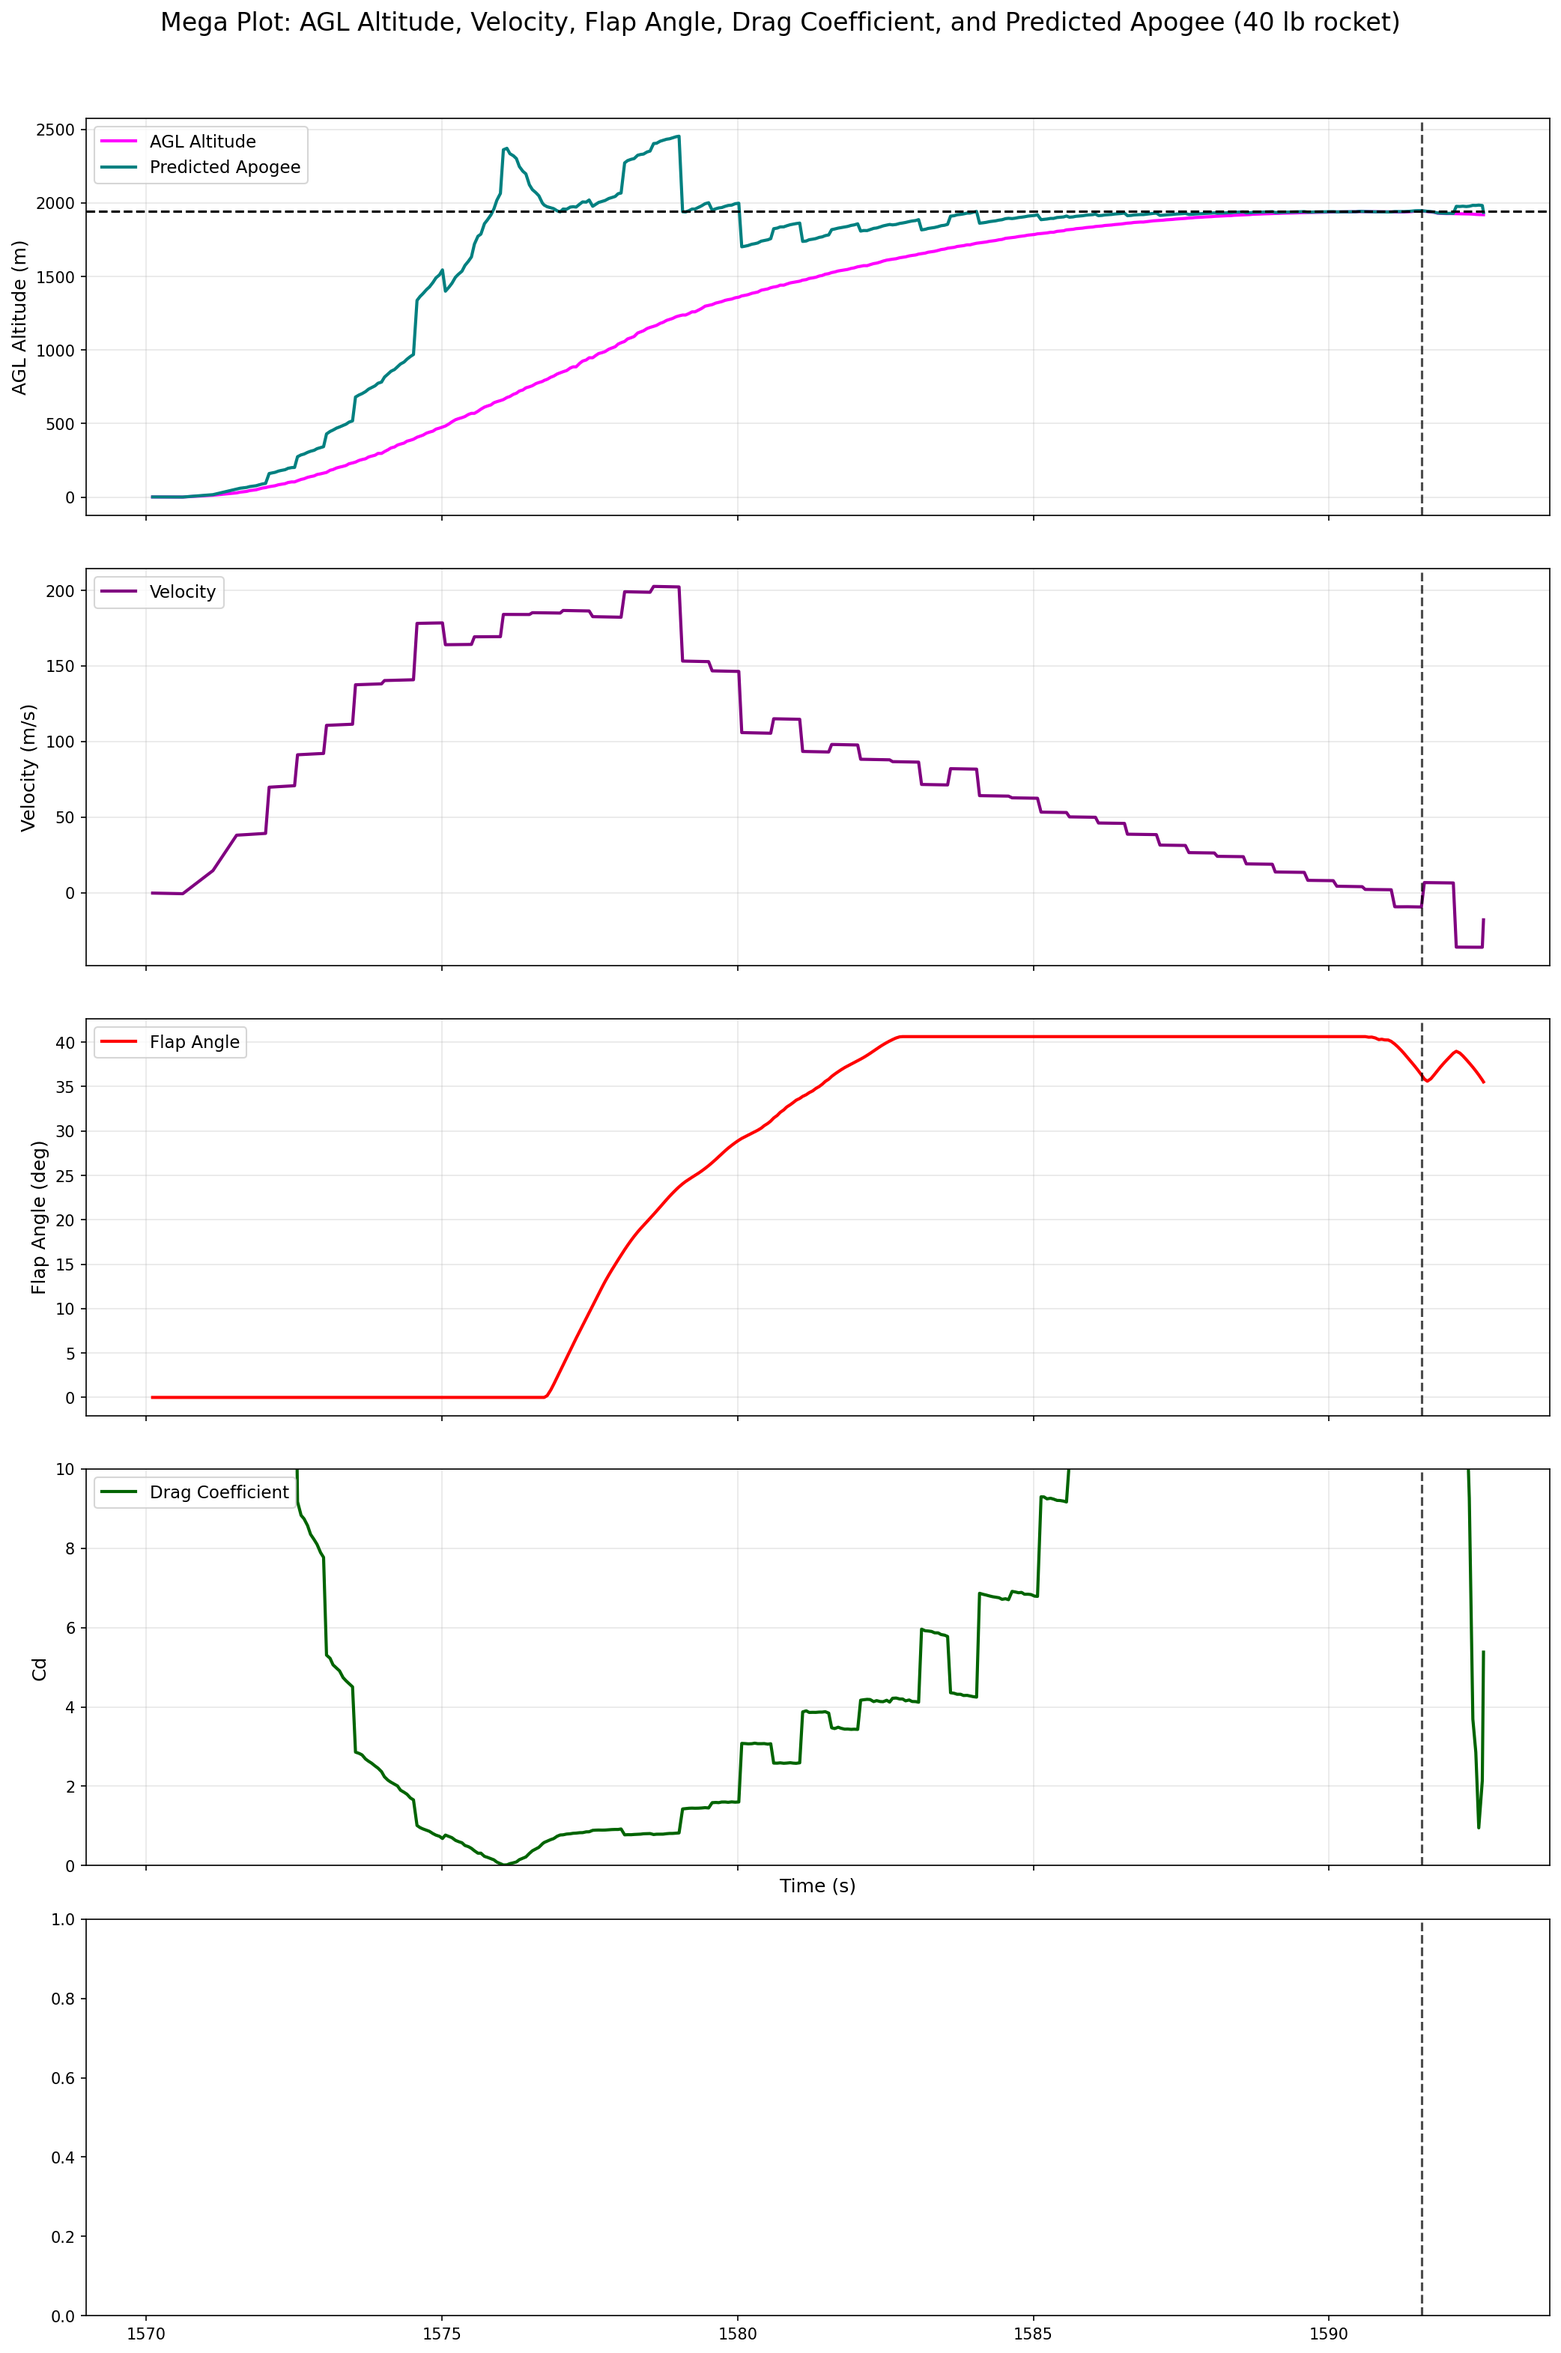
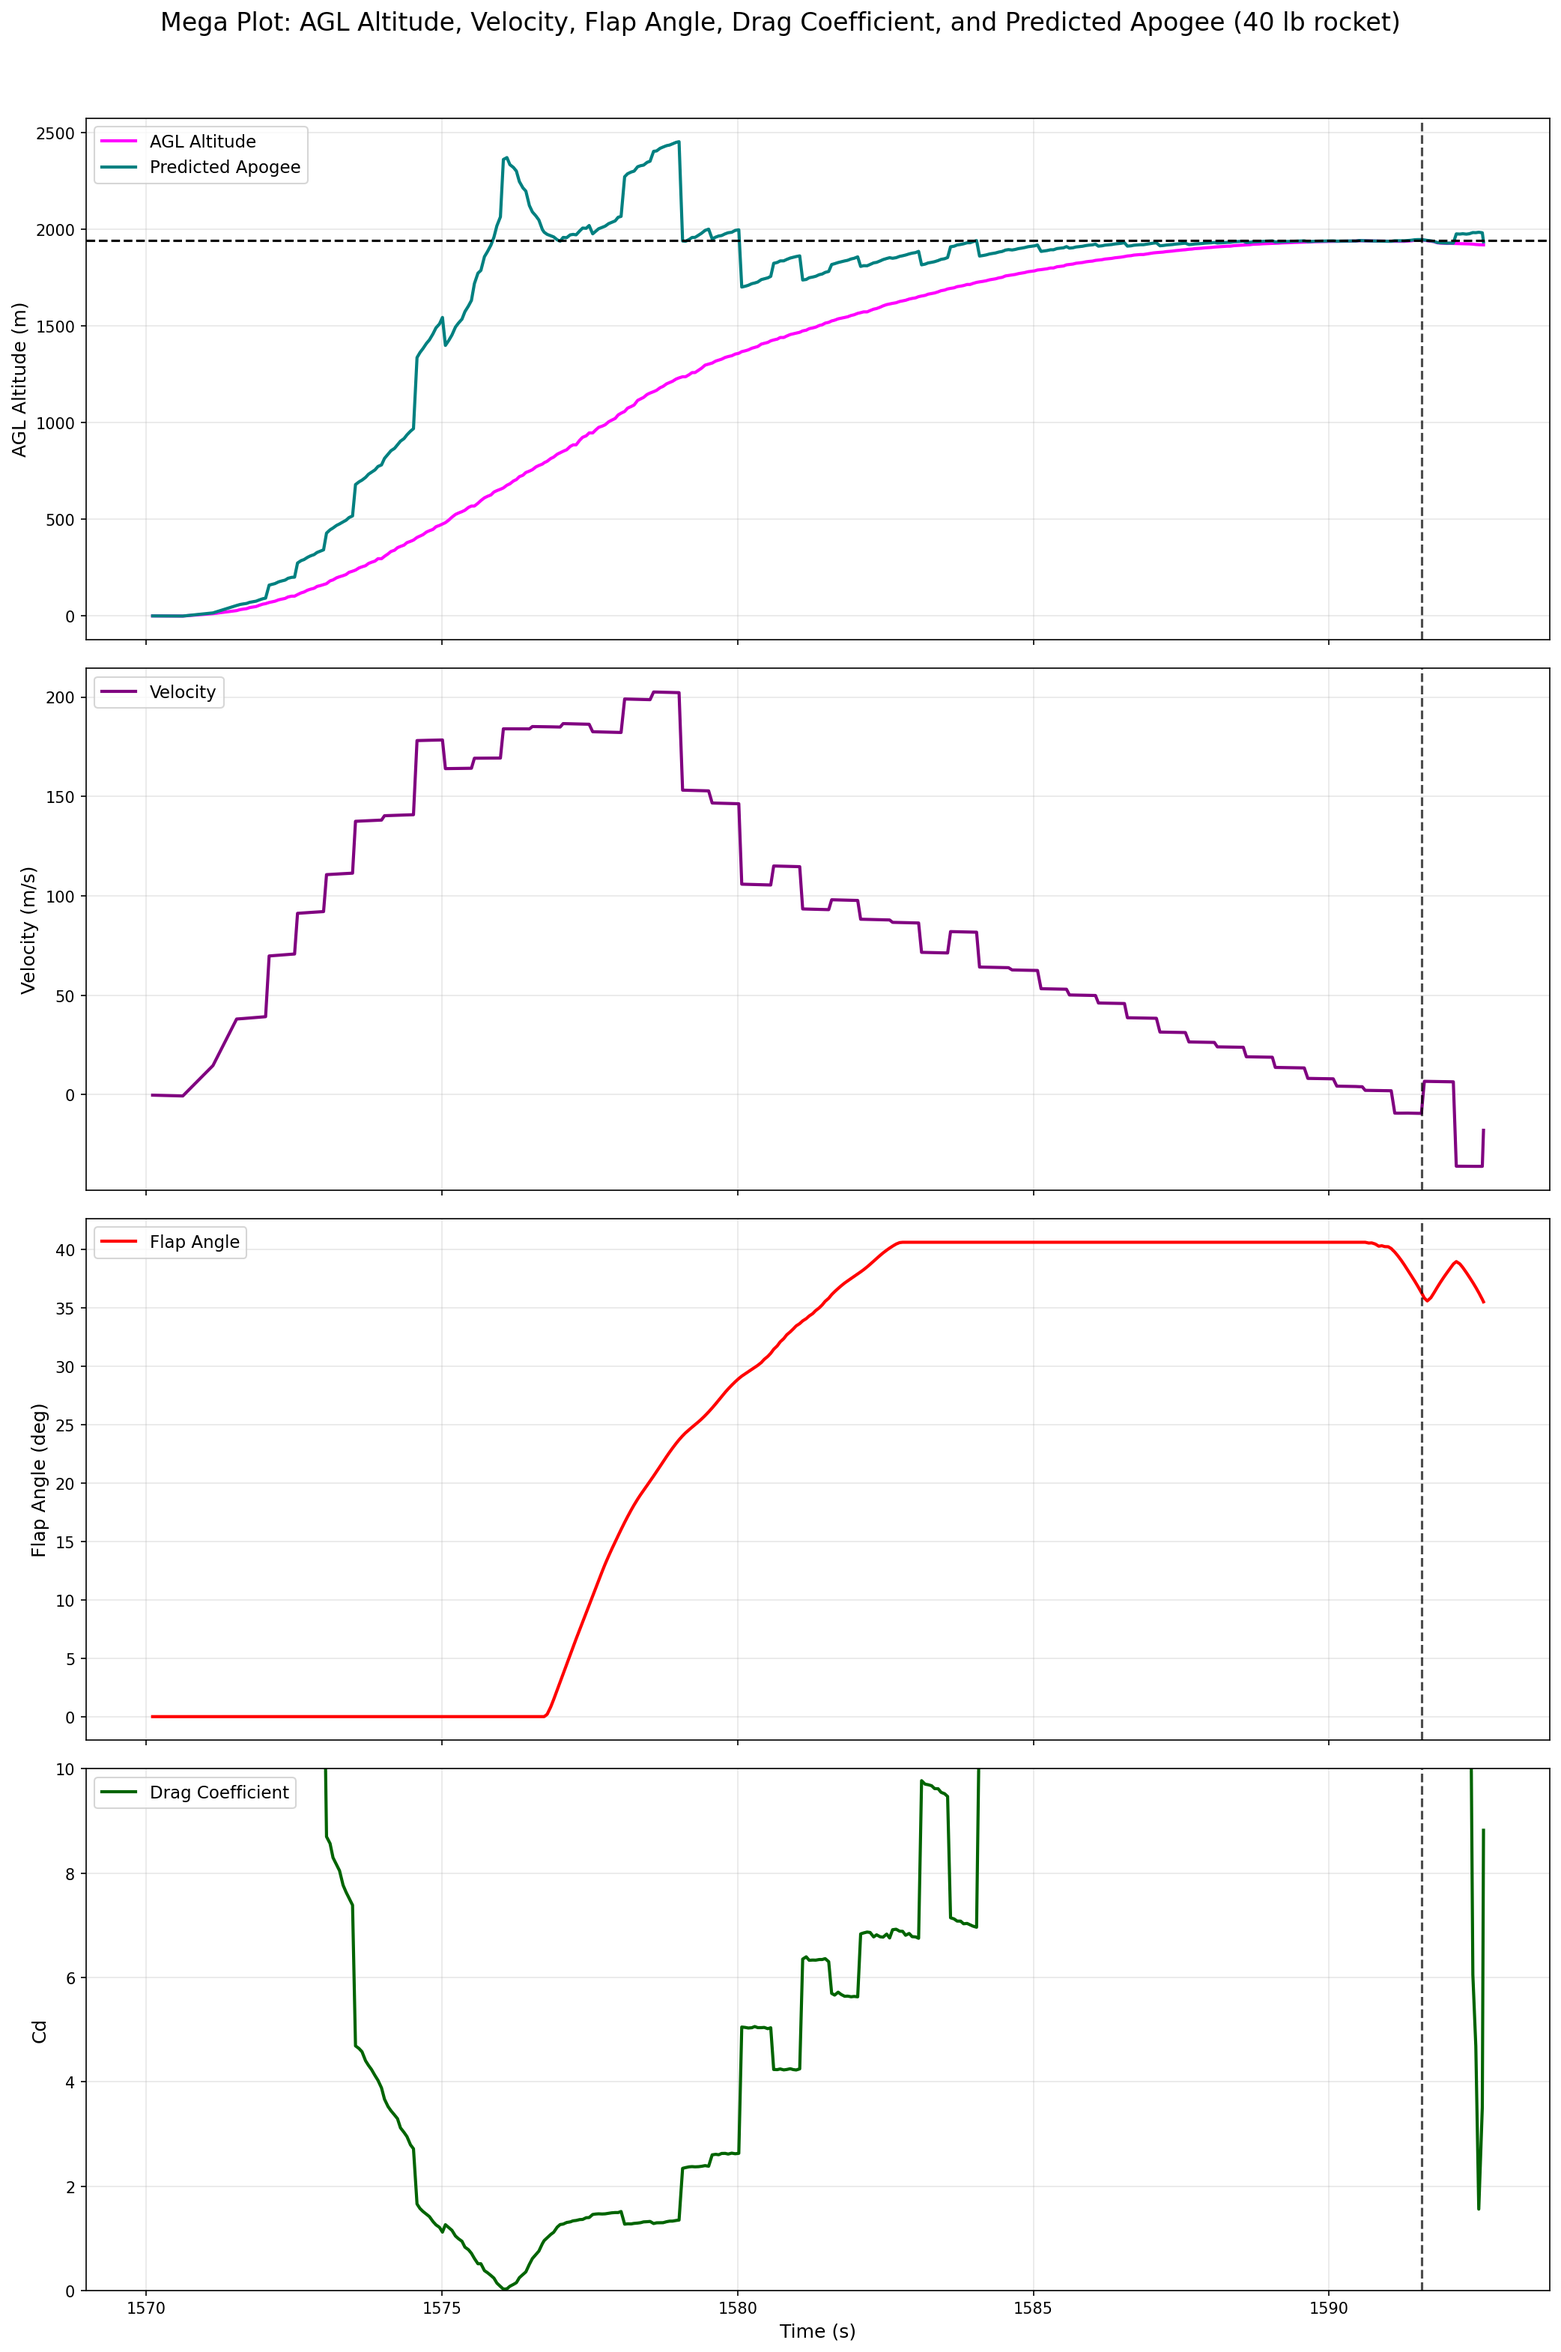
refactored some shiz and made the mass accruate for after burnout

diff --git a/scripts/data_analysis.py b/scripts/data_analysis.py
@@ -288,6 +288,7 @@ class FlightDataAnalyzer():
         apogee = altitude + mass / (2*k) * np.log(1 + (k * velocity**2) / (mass * g))
         return apogee
 
+
     def plot_motor_and_acceleration_data(self):
         """Plot motor data on left y-axis and acceleration data on right y-axis"""
         time = self.df['time_s']
@@ -332,11 +333,13 @@ class FlightDataAnalyzer():
         accel_z = self.df['accel_z_mps2'] - 9.81
         agl_apogee = max(agl_altitude)
 
-        mass_kg = 40.0 * 0.45359237
+        mass_kg = 29.756
         frontal_area_m2 = np.pi * 0.0762**2 # 6in diameter rocket
         drag_coeff = self._cd_from_accel(mass_kg, frontal_area_m2, accel_z, velocity, pressure, temperature)
-        predicted_apogee = self._get_predicted_apogee(mass_kg, agl_altitude, velocity, drag_coeff, frontal_area_m2, pressure, temperature)
-
+        rho = self._air_density_from_pressure(pressure, temperature)
+        predicted_apogee = self._get_predicted_apogee(mass_kg, agl_altitude, velocity, drag_coeff, frontal_area_m2, rho)
+        self._get_predicted_apogee(mass_kg, agl_altitude, velocity, drag_coeff, frontal_area_m2, rho)
+        
         fig, axs = plt.subplots(4, 1, figsize=(14, 22), sharex=True)
 
         axs[0].plot(time, agl_altitude, color='magenta', linewidth=2, label='AGL Altitude')
@@ -372,6 +375,8 @@ class FlightDataAnalyzer():
         fig.tight_layout(rect=[0, 0.03, 1, 0.96])
         fig.savefig(self.output_dir / 'mega_plot.png', dpi=150, bbox_inches='tight')
         plt.close(fig)
+
+
 def main():
   # Analyze epic_data.csv for time range 1550-1625 seconds
   flight_analyzer = FlightDataAnalyzer('data/epic_data.csv', time_range=(1570, 1595))
